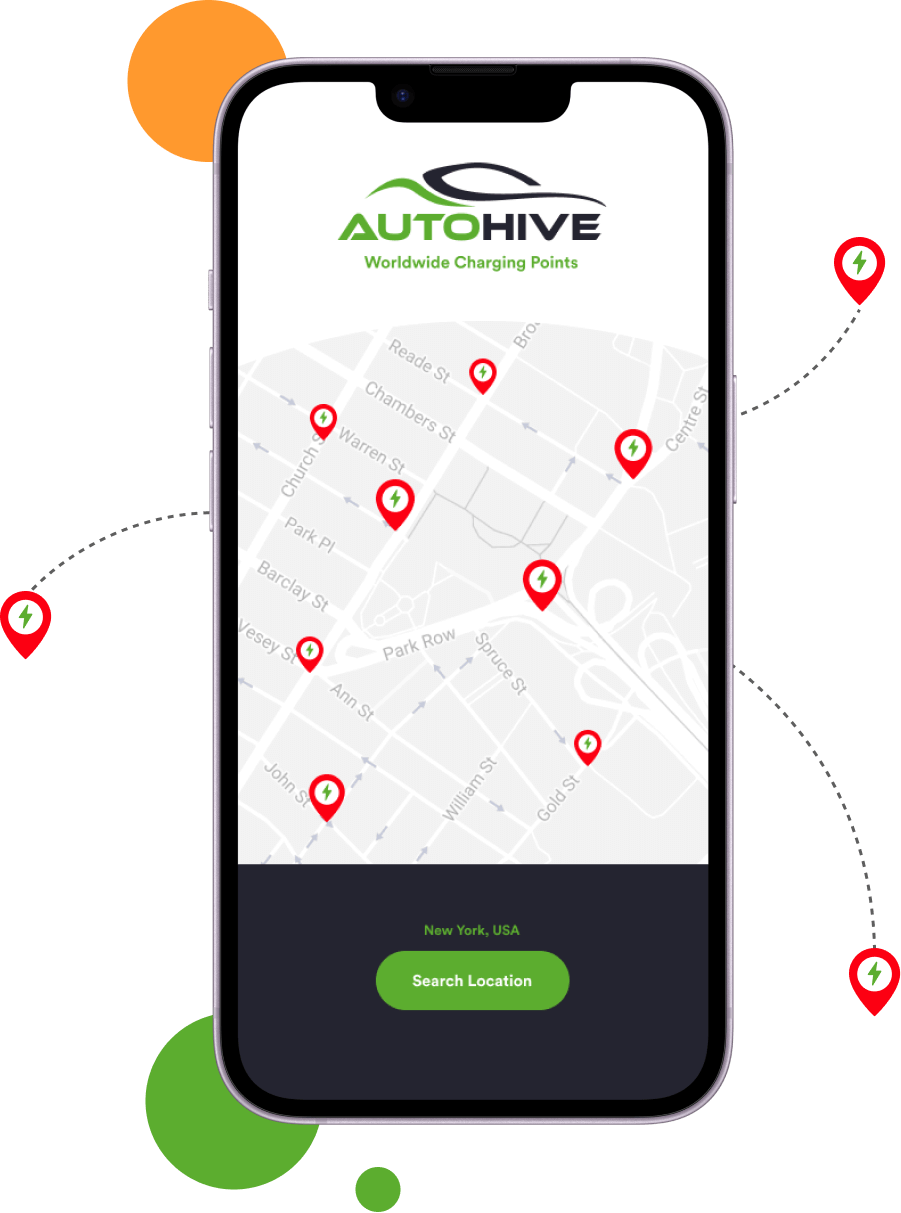
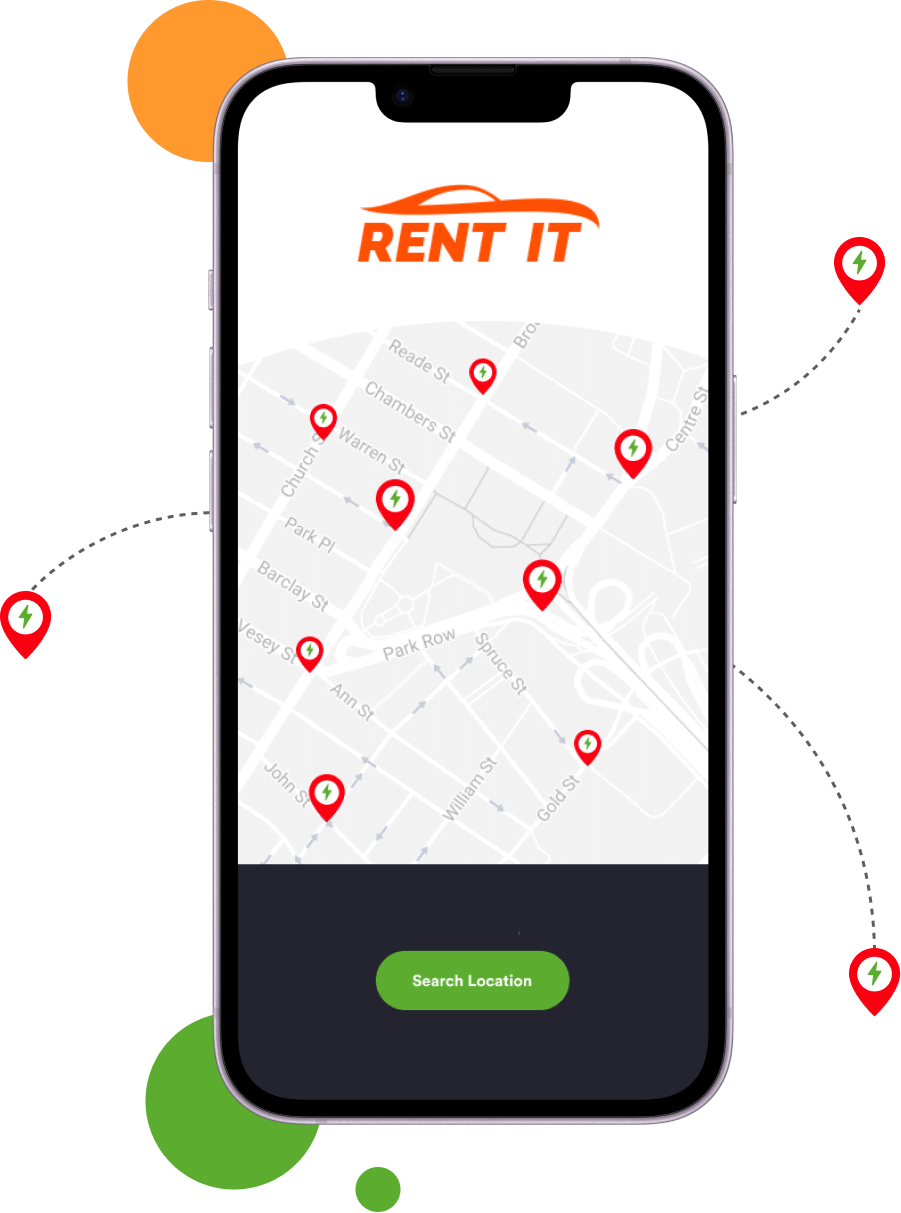
updated

Changed region(s): [[0.3729, 0.122, 0.6837, 0.244], [0.4661, 0.7626, 0.5905, 0.7931]]

diff --git a/src/app/about-us/about-us.component.html b/src/app/about-us/about-us.component.html
@@ -92,3 +92,84 @@
     </div>
 </div>
 <!-- ===================================about us area======================================= -->
+
+<!-- ===================================app promotion area================================== -->
+<div class="container-fluid">
+    <div class="row">
+        <div class="col-lg-12 mainmvout_section">
+            <div class="container">
+                <div class="row">
+                    <div class="col-lg-12 dap_section">
+                        <div class="row">
+                            <div class="col-lg-5">
+                                <div class="leftimg_jaboutarea">
+                                    <img src="assets/images/mobile.png" class="dmobile_designarea">
+                                </div>
+                            </div>
+                            <div class="col-lg-7">
+                                <div class="rgtctnt_section">
+                                    <h2 class="apps_textdesign">
+                                        Available Apps
+                                        <span class="ms-2">
+                                            <svg width="80" height="12" viewBox="0 0 80 12" fill="none" xmlns="http://www.w3.org/2000/svg">
+                                                <path d="M0 6L74 6.00002" stroke="#5CAD2F" stroke-width="1.5"></path>
+                                                <path d="M79.5 6L70.5 11.1961L70.5 0.803846L79.5 6Z" fill="#5CAD2F"></path>
+                                            </svg>
+                                        </span>
+                                    </h2>
+                                    <h6 class="dtbc_textdesign">
+                                        Download the Best Car Cab
+                                        <span class="cpstext_design"> 
+                                         Apps
+                                        </span> 
+                                    </h6>
+                                    <p class="sclp_textdesign">
+                                        Synergistically maintain compelling content whereas 
+                                        technically sound portals. Continually productize 
+                                        open-source alignments and standardized markets. 
+                                        Compellingly orchestrate fully tested services 
+                                        via equity invested methods of empowerment 
+                                        technically sound portals.
+                                    </p>
+                                    <div class="ktwapbtn_area">
+                                        <button class="hkcvb_areasection1">
+                                        <a href="#" class="lnktext_design">
+                                           <div class="area_design1">
+                                              <img src="assets/images/apple-store.png" class="googleplybtn_design">
+                                           </div>
+                                           <div class="area_design2">
+                                              <h2 class="lknmcv_btngl2">
+                                                 Download on the
+                                              </h2>
+                                              <h3 class="lknmcv_btngl1">
+                                                 App Store
+                                              </h3>
+                                           </div>
+                                        </a>
+                                        </button>
+                                        <button class="hkcvb_areasection2">
+                                        <a href="#" class="lnktext_design">
+                                           <div class="area_design1">
+                                              <img src="assets/images/google-play.png" class="googleplybtn_design">
+                                           </div>
+                                           <div class="area_design2">
+                                              <h2 class="lknmcv_btngl2">
+                                                Get it on
+                                              </h2>
+                                              <h3 class="lknmcv_btngl1">
+                                                Google Play
+                                              </h3>
+                                           </div>
+                                        </a>
+                                        </button>
+                                    </div>    
+                                </div>
+                            </div>
+                        </div>
+                    </div>
+                </div>
+            </div>
+        </div>
+    </div>
+</div>
+<!-- ===================================app promotion area================================== -->

diff --git a/src/app/about-us/about-us.component.scss b/src/app/about-us/about-us.component.scss
@@ -181,3 +181,126 @@
    font-size: 20px;
    padding: 0px 0px 0px 5px;
 }
+.mainmvout_section
+{
+    margin: 180px 0px 0px 0px;
+    background-image: url(http://localhost:4200/assets/images/bg-blur.png);
+    background-repeat: no-repeat;
+    background-position: center;
+    background-size: cover;
+}
+.dap_section
+{
+    margin: 50px 0px 50px 0px;
+}
+.leftimg_jaboutarea
+{
+    border: none;
+}
+.dmobile_designarea
+{
+    margin-left: auto;
+    margin-right: auto;
+    display: block;
+    max-width: 90%;
+    height: auto;
+}
+.rgtctnt_section
+{
+    border: none;
+    padding: 150px 0px 0px 50px;
+}
+.apps_textdesign
+{
+    color: #000;
+    font-weight: 700;
+    padding: 0px 0px 0px 0px;
+    margin: 0px;
+}
+.dtbc_textdesign
+{
+    color: #242430;
+    font-size: 35px;
+    margin: 0px;
+    padding: 15px 0px 0px 0px;
+    width: 430px;
+    line-height: 40px;
+    font-weight: 700;
+}
+.cpstext_design
+{
+    color: #ff4f02;
+}
+.sclp_textdesign
+{
+    color: #444;
+    padding: 20px 0px 0px 0px;
+    line-height: 27px;
+    font-size: 17px;
+    text-align: justify;
+}
+.hkcvb_areasection1 
+{
+    border: none;
+    outline: none;
+    margin: 0px 15px 0px 0px;
+    width: 180px;
+    height: 62px;
+    border-radius: 7px;
+    animation: shadow-pulse 1.5s infinite;
+    background: #5cad2f;
+}
+.hkcvb_areasection2 
+{
+    border: none;
+    outline: none;
+    margin: 0px 15px 0px 0px;
+    width: 180px;
+    height: 62px;
+    border-radius: 7px;
+    animation: shadow-pulse 1.5s infinite;
+    background: #000;
+}
+.lnktext_design 
+{
+  text-decoration: none;
+}
+.area_design1 
+{
+    width: 30%;
+    float: left;
+    text-align: center;
+    padding: 8px 0px 0px 0px;
+}
+.googleplybtn_design 
+{
+    width: 30px;
+}
+.area_design2 
+{
+    width: 68%;
+    float: left;
+}
+.lknmcv_btngl2 
+{
+    font-size: 12px;
+    color: #FFF;
+    text-align: left;
+    padding: 0px 0px 0px 3px;
+    letter-spacing: 0.2px;
+    margin: 0px;
+}
+.lknmcv_btngl1 
+{
+    font-size: 17px;
+    color: #FFF;
+    font-weight: 800;
+    text-align: left;
+    padding: 0px 0px 0px 3px;
+    letter-spacing: 1px;
+    margin: -12px 0px 0px 0px;
+}
+.ktwapbtn_area
+{
+    margin: 20px 0px 0px 0px;
+}

diff --git a/src/app/shared/header/header.component.html b/src/app/shared/header/header.component.html
@@ -3,7 +3,7 @@
     <div class="wrapper">
         <div class="site_logoarea">
             <a href="#">
-                <img src="assets/images/logo-rentit.png" class="logo_design">
+                <img src="assets/images/logo-rentit-web.png" class="logo_design">
             </a>
         </div>
         <input type="radio" name="slider" id="menu-btn">

diff --git a/src/app/shared/header/header.component.scss b/src/app/shared/header/header.component.scss
@@ -301,7 +301,7 @@
   outline: none;
   border-radius: 3px;
   color: #FFF;
-  background: #319a64;
+  background: #5cad2f;
   margin: 13px 10px 0px 0px;
   line-height: 45px;
   font-size: 14px;
